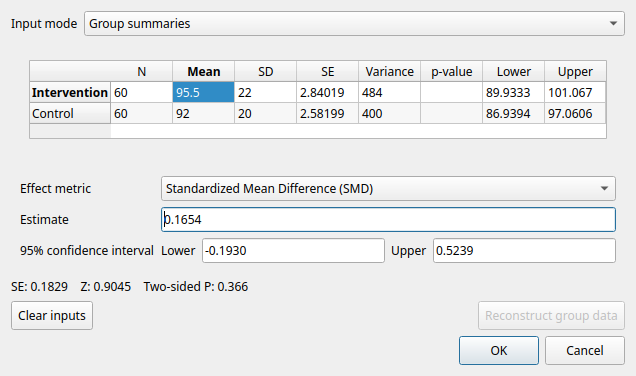
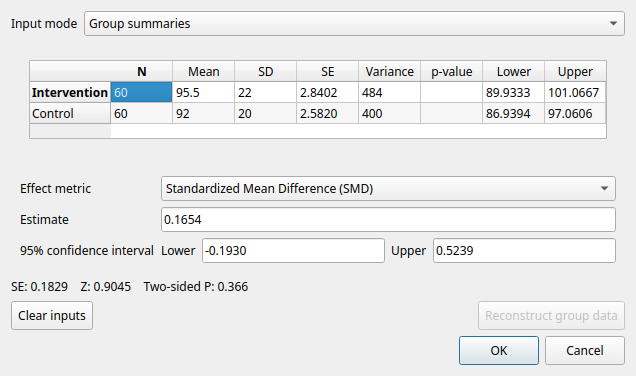
Record passing slice 8A verification and refreshed screens

diff --git a/docs/ux-hill-climb/SLICE8A.md b/docs/ux-hill-climb/SLICE8A.md
@@ -102,3 +102,20 @@ The outcome page runtime title also uses Outcome and groups / Outcome. Capture s
 Visual follow-up: restrict fixed estimate precision to group SE and CI columns; sample sizes and other summaries retain their compact display. First full pytest attempt ended externally with SIGTERM (exit 143) after 13 passes, no failures or final summary. Owned orphan children were closed by PID before retry.
 
 First uninterrupted selected suite: 50 passed, 1 failed in 1675.16s. review1-design timed out waiting behind the import file picker; its later italic/amber assertion was also obsolete. Updated the real start-page drive to supply a test-owned CSV and check normal font plus composited theme-text contrast. Targeted review1-design passed: artifacts/verification/rcms/20261101T002146Z-58823f8d-review1-design. All numerical assertions are unchanged.
+
+## Final completion evidence
+
+All nine requested serial scenarios passed on the final rerun. Commands used `source build/sheets-baseline/ENV.sh` and `uv run --no-sync python scripts/verify_rcms.py SCENARIO`; no uv sync was run.
+- xlsx-import: `artifacts/verification/rcms/20261101T002217Z-bf9d1df7-xlsx-import`
+- csv: `artifacts/verification/rcms/20261101T002236Z-8fd59e93-csv`
+- calculator-binary: `artifacts/verification/rcms/20261101T002247Z-d4e1f29e-calculator-binary`
+- calculator-continuous: `artifacts/verification/rcms/20261101T002302Z-5d20bf55-calculator-continuous`
+- calculator-diagnostic: `artifacts/verification/rcms/20261101T002314Z-750b1dfc-calculator-diagnostic`
+- calculator-ratio-precision: `artifacts/verification/rcms/20261101T002340Z-6f73c8e9-calculator-ratio-precision`
+- amino: `artifacts/verification/rcms/20261101T002524Z-f5b0ed3e-amino`
+- sheets: `artifacts/verification/rcms/20261101T002537Z-e368282f-sheets`
+- hillclimb: `artifacts/verification/rcms/20261101T002555Z-5c579446-hillclimb`
+
+Final uninterrupted command: `uv run --no-sync python -m pytest tests/e2e -n 2 -q -k "calculator or wizard or import or csv or ux or audit or review"`. Result: **51 passed in 1630.99s (27m10s), exit 0**. Transcript: [SLICE8A-pytest.txt](SLICE8A-pytest.txt). Each test retains its own evidence manifest under artifacts/verification/rcms. Earlier interrupted and failed evidence remains intact.
+
+Screens refreshed: import, metric, binary/continuous/diagnostic calculators, light/dark effect grid, and light/dark welcome/data-type/outcome/CSV pages. Scope: Qt offscreen, not native display qualification. Existing baseline accepted-row fixtures and numerical assertions passed unchanged. No numerical algorithms changed. All four numbered steps are complete.

diff --git a/.agents/skills/verify-rcms/features/calculators.md b/.agents/skills/verify-rcms/features/calculators.md
@@ -110,3 +110,9 @@ The source interval level is stored per study; output confidence is separate.
 enter OR/MD intervals at 90%, switch sheet output confidence to 95%, save/reopen,
 and compare the actual study SE used in analysis to metafor::conv.wald and
 qnorm(.95) within 1e-6. Entered bounds retain their source multiplier.
+
+Slice 8A: continuous group SE/CI cells paint at estimate precision while retaining
+full item/editor text. Diagnostic prevalence uses a rounded unfocused readout and
+round-trip-safe text. Binary OR/RR/RD readouts fit their three rows and columns.
+The baseline acceptance fixtures and independent numerical comparisons remain
+unchanged. Refreshed offscreen screenshots are in docs/ux-hill-climb/screens/slice8a-*.

diff --git a/.agents/skills/verify-rcms/features/projects.md b/.agents/skills/verify-rcms/features/projects.md
@@ -152,3 +152,8 @@ and metric page in light/dark palettes and checks uniform icon presence at each
 level. `csv` opens the initially collapsed CSV options and retains its Unicode,
 covariate, analysis and reopen assertions. Welcome-page picker entry and native
 OS file-picker operation remain unexercised by these automated scenarios.
+
+Slice 8A: effect cells use a translucent neutral tint, normal font and inherited
+theme text. The xlsx-import drive captures the amino effect grid with light and
+dark palettes; review1-design checks composited text contrast and exercises the
+start-page import action with a controlled file-picker result.
